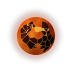
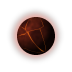
Mineral world v2: orange-red lava kept off the limb; v3 redrawn as huge continents with thin lava cracks
Claude-Session: https://claude.ai/code/session_01DRKpqnCyrZwnZLKGJij4TG

Changed region(s): [[0.2222, 0.2222, 0.7778, 0.7778]]

diff --git a/tools/make_planet_types.py b/tools/make_planet_types.py
@@ -121,7 +121,7 @@ def craters(src, rng, count=34, basins=0):
 
 
 def mineral_world(rng):
-    """Dark red rock cut by bright rivers of lava, in planet5's red glow."""
+    """Dark red rock cut by rivers of orange-red lava, in planet5's red glow."""
     nx, ny, nz, inside = sphere_coords()
     n = HEX * SS
     rock = ramp(noise(rng, n, base=3), [(30, 9, 8), (56, 16, 12), (84, 24, 16), (104, 32, 20)])
@@ -131,9 +131,11 @@ def mineral_world(rng):
         r = noise(rng, n, base=b, octaves=4)
         river = np.maximum(river, np.clip(1 - np.abs(r - 0.5) / wdt, 0, 1))
     river *= np.clip((noise(rng, n, base=3) - 0.12) * 3, 0, 1)   # a few breaks
-    lava = ramp(river, [(170, 34, 10), (240, 96, 18), (255, 170, 40), (255, 236, 140)])
+    lava = ramp(river, [(110, 20, 8), (170, 40, 10), (215, 70, 16), (240, 110, 30)])
     s = shade(nx, ny, nz)
-    m = np.clip(river * 2.2, 0, 1)[..., None]
+    # keep the lava off the limb so the planet has a clean dark outline
+    m = np.clip(river * 2.2, 0, 1) * limb_fade(nx, ny)
+    m = m[..., None]
     # lava glows on its own, a little dimmer on the night side
     rgb = rock * s[..., None] * (1 - m) + lava * (0.6 + 0.4 * s)[..., None] * m
     return textured_sphere(rgb, glow=(220, 60, 40), lit=True)
@@ -210,45 +212,49 @@ def life_world2(rng):
     return textured_sphere(rgb, glow=(120, 200, 215), lift=cap[..., 0])
 
 
+def limb_fade(nx, ny, start=0.82):
+    """1 inside, falling to 0 at the planet's edge."""
+    return np.clip((1 - np.sqrt(nx ** 2 + ny ** 2)) / (1 - start), 0, 1)
+
+
 def mineral_world3(rng):
-    """Blocky continents of dark red rock adrift on a sea of lava; thin
-    bright cracks where the blocks meet."""
+    """A few huge dark continents of rock, split here and there by thin
+    orange cracks of lava."""
     nx, ny, nz, inside = sphere_coords()
     n = HEX * SS
-    pts = rng.normal(size=(140, 3))
+    # wobble the normals so the cracks wander instead of running straight
+    w = 0.10
+    wx, wy, wz = (noise(rng, n, base=5, octaves=5) - 0.5 for _ in range(3))
+    v = np.stack([nx + w * wx, ny + w * wy, nz + w * wz], -1).reshape(-1, 3)
+    v /= np.linalg.norm(v, axis=1, keepdims=True)
+    pts = rng.normal(size=(14, 3))
     pts /= np.linalg.norm(pts, axis=1, keepdims=True)
-    normals = np.stack([nx, ny, nz], -1).reshape(-1, 3)
-    ang = np.arccos(np.clip(normals @ pts.T, -1, 1))
+    ang = np.arccos(np.clip(v @ pts.T, -1, 1))
     order = np.argsort(ang, axis=1)
-    first = order[:, 0]
-    a1 = np.take_along_axis(ang, order[:, :1], 1)[:, 0]
-    a2 = np.take_along_axis(ang, order[:, 1:2], 1)[:, 0]
-    # blocks cluster into continents: a plate is land where a coarse field is high
-    # four continents spread over the near side, jittered
-    xy = np.array([(-0.52, -0.40), (0.50, -0.42), (-0.40, 0.50), (0.48, 0.45)]) + rng.uniform(-0.1, 0.1, (4, 2))
-    seeds = np.column_stack([xy, np.sqrt(1 - (xy ** 2).sum(1))])
-    near = np.arccos(np.clip(pts @ seeds.T, -1, 1)).min(axis=1)
-    is_land = near < 0.44
-    land_px = is_land[first].reshape(n, n)
-    # land keeps a dark gap to the sea: the plate edge, measured inward
-    edge = (a2 - a1).reshape(n, n)
-    other = order[:, 1].reshape(n, n)
-    shore = land_px & ~is_land[other]                   # next plate is sea
-    block = land_px & ~(shore & (edge < 0.07))          # sea eats a margin
-    tone = rng.random(len(pts))[first].reshape(n, n)
-    grain = noise(rng, n, base=10, octaves=4)
-    rock = ramp(np.clip(0.6 * tone + 0.4 * grain, 0, 1), [(40, 12, 12), (64, 18, 15), (90, 28, 20), (112, 38, 24)])
+    first, second = order[:, 0], order[:, 1]
+    gap = (np.take_along_axis(ang, order[:, 1:2], 1) - np.take_along_axis(ang, order[:, :1], 1))[:, 0]
+    # only some borders crack open; the rest are solid rock
+    k = len(pts)
+    opened = rng.random((k, k)) < 0.6
+    opened = opened | opened.T
+    crack = opened[first, second] * np.clip(1 - gap / 0.02, 0, 1)
+    crack = crack.reshape(n, n) * limb_fade(nx, ny)
+    warm = (opened[first, second] * np.clip(1 - gap / 0.07, 0, 1)).reshape(n, n) * limb_fade(nx, ny)
+    tone = rng.random(k)[first].reshape(n, n)
+    grain = noise(rng, n, base=6, octaves=6)
+    rock = ramp(np.clip(0.45 * tone + 0.55 * grain, 0, 1),
+                [(48, 15, 13), (76, 24, 17), (108, 36, 22), (138, 52, 30)])
+    fine = noise(rng, n, base=14, octaves=3)
+    rock *= (0.72 + 0.56 * fine)[..., None]                # rough, mottled rock
+    low = np.clip((0.42 - noise(rng, n, base=4, octaves=4)) * 4, 0, 0.5)[..., None]
+    rock = rock * (1 - low) + np.array([34, 11, 10], np.float32) * low   # dark lowlands
+    # the rock beside a crack is heated a dull red
+    rock = rock * (1 - 0.5 * warm[..., None]) + np.array([150, 40, 16], np.float32) * 0.5 * warm[..., None]
     s = shade(nx, ny, nz)
-    rock = rock * s[..., None]
-    # cracks between neighbouring blocks: thin and bright
-    crack = (land_px & is_land[other] & (edge < 0.016)).astype(np.float32)
-    heat = noise(rng, n, base=6)
-    sea = ramp(heat, [(150, 30, 8), (205, 66, 14), (240, 112, 24), (255, 160, 48)])
-    sea = sea * (0.65 + 0.35 * s)[..., None]
-    rgb = np.where(block[..., None], rock, sea)
-    hot = np.array([255, 190, 70], np.float32) * (0.7 + 0.3 * s)[..., None]
-    rgb = rgb * (1 - crack[..., None]) + hot * crack[..., None]
-    return textured_sphere(rgb, glow=(230, 80, 40), lit=True)
+    hot = np.array([250, 120, 30], np.float32) * (0.7 + 0.3 * s)[..., None]
+    c = crack[..., None]
+    rgb = rock * s[..., None] * (1 - c) + hot * c
+    return textured_sphere(rgb, glow=(220, 60, 40), lit=True)
 
 
 def spend(rng, *bases):
